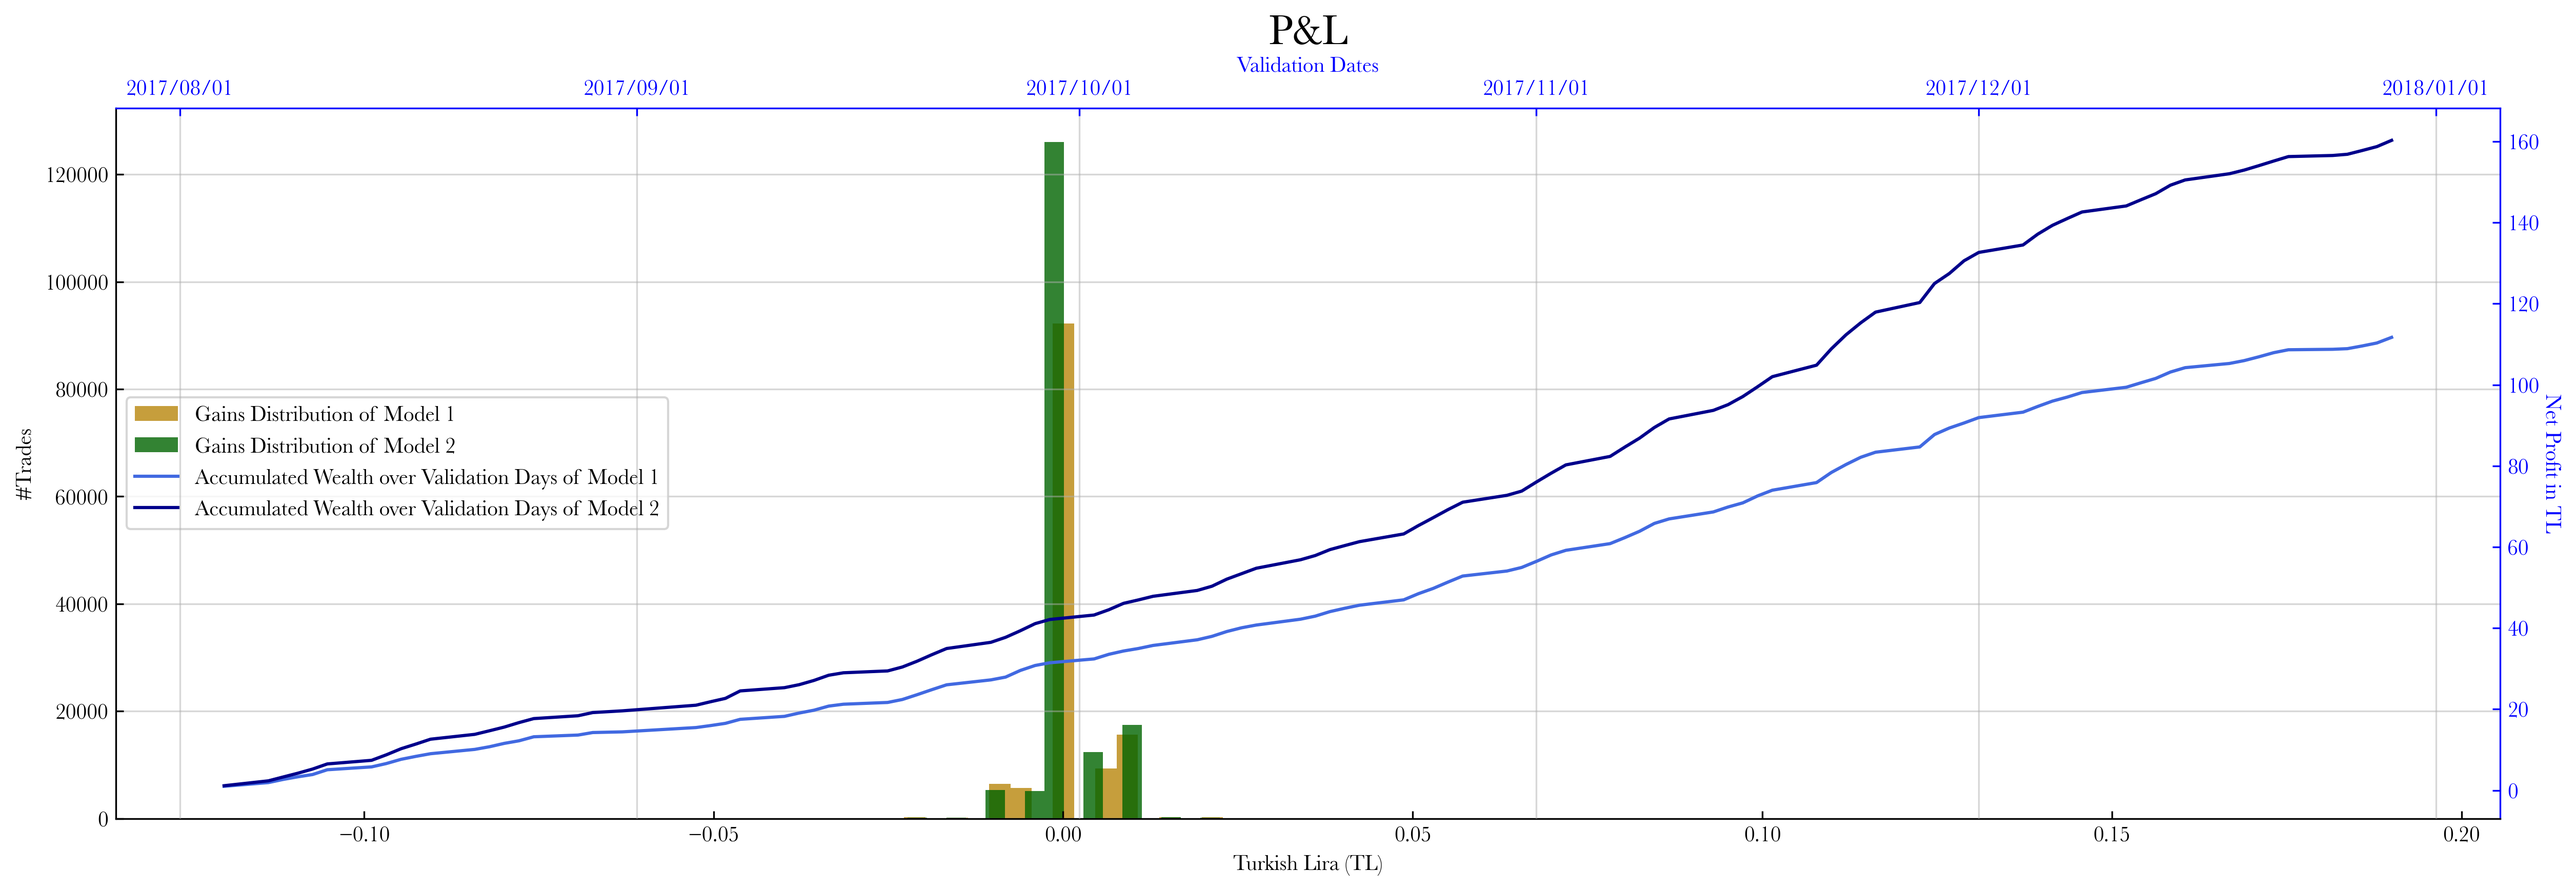
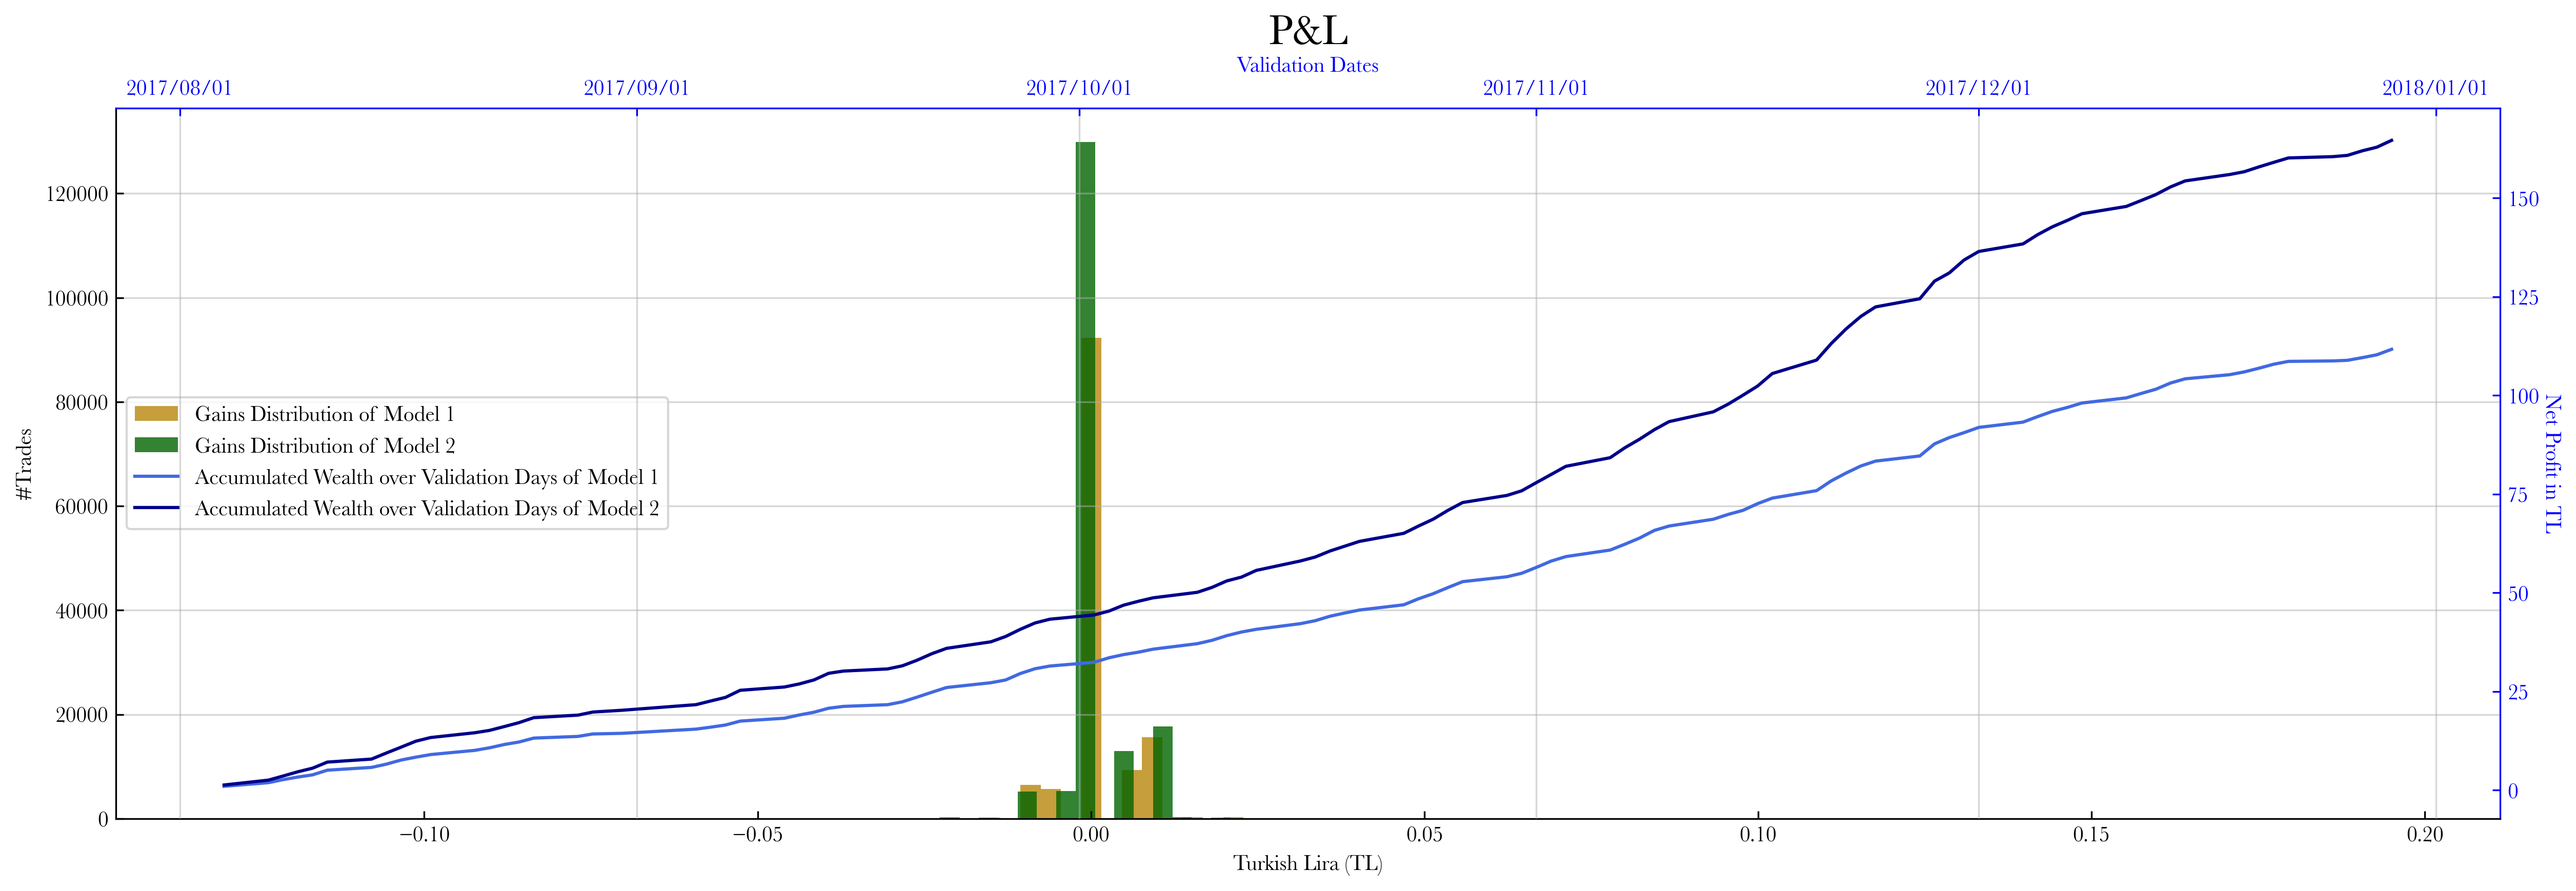
correctly initialize model 2 in PFNN

diff --git a/RL_Examples/RL_paper/PartiallyTrained/paper_random_init_website.html b/RL_Examples/RL_paper/PartiallyTrained/paper_random_init_website.html
@@ -13051,8 +13051,7 @@ div#notebook {
 </style>
 
 <!-- Custom stylesheet, it must be in the same directory as the html file -->
-<link rel="stylesheet" href="../../RL_Examples.css">
-<script src="../../RL_Examples.js"></script>
+<link rel="stylesheet" href="custom.css">
 
 <!-- Loading mathjax macro -->
 <!-- Load mathjax -->
@@ -13164,7 +13163,7 @@ $( document ).ready(function(){
 <span class="kn">import</span> <span class="nn">pickle</span>
 
 <span class="n">model_dir_1</span> <span class="o">=</span> <span class="s2">&quot;./01_12_21/&quot;</span>
-<span class="n">model_dir_2</span> <span class="o">=</span> <span class="s2">&quot;./20_12_2021_16_30_09/&quot;</span>
+<span class="n">model_dir_2</span> <span class="o">=</span> <span class="s2">&quot;./24_12_2021_06_05_02/&quot;</span>
 
 <span class="n">sys</span><span class="o">.</span><span class="n">path</span><span class="o">.</span><span class="n">append</span><span class="p">(</span><span class="n">model_dir_1</span><span class="p">)</span>
 <span class="n">sys</span><span class="o">.</span><span class="n">path</span><span class="o">.</span><span class="n">append</span><span class="p">(</span><span class="n">model_dir_2</span><span class="p">)</span>
@@ -13251,7 +13250,7 @@ $( document ).ready(function(){
 
 
 
-<div class="output_html rendered_html output_subarea " style="font-size: 8px;">
+<div class="output_html rendered_html output_subarea ">
 <pre>                                         Model 1                                                                                   Model 2                                          
 ====================================================================================================================================================================================
 Layer (type:depth-idx)                   Output Shape              Param #                Layer (type:depth-idx)                   Output Shape              Param #                
@@ -13351,7 +13350,7 @@ We also see that increasing the size of the non-trainable hidden layer is benefi
 
 <div class="output_subarea output_stream output_stdout output_text">
 <pre>Total Gains: 111.7 TL in 103 days (Model 1).
-Total Gains: 160.28 TL in 103 days (Model 2).
+Total Gains: 164.63 TL in 103 days (Model 2).
 </pre>
 </div>
 </div>
@@ -13362,7 +13361,7 @@ Total Gains: 160.28 TL in 103 days (Model 2).
 
 
 <div class="output_subarea output_stream output_stderr output_text">
-<pre>100%|██████████| 1/1 [00:00&lt;00:00,  3.74it/s]
+<pre>100%|██████████| 1/1 [00:00&lt;00:00,  4.45it/s]
 </pre>
 </div>
 </div>
@@ -13468,7 +13467,7 @@ Total Gains: 160.28 TL in 103 days (Model 2).
 
 <div class="output_subarea output_stream output_stdout output_text">
 <pre>Training duration: 2.66 Hours, Model taken from iteration no. 250, Total iterations: 250 (Model 1).
-Training duration: 3.66 Hours, Model taken from iteration no. 248, Total iterations: 250 (Model 2).
+Training duration: 1.29 Hours, Model taken from iteration no. 233, Total iterations: 250 (Model 2).
 </pre>
 </div>
 </div>
@@ -13479,7 +13478,7 @@ Training duration: 3.66 Hours, Model taken from iteration no. 248, Total iterati
 
 
 <div class="output_subarea output_stream output_stderr output_text">
-<pre>100%|██████████| 1/1 [00:00&lt;00:00, 16.65it/s]
+<pre>100%|██████████| 1/1 [00:00&lt;00:00, 18.58it/s]
 </pre>
 </div>
 </div>
@@ -13504,7 +13503,7 @@ Training duration: 3.66 Hours, Model taken from iteration no. 248, Total iterati
 
 
 <div class="output_subarea output_stream output_stderr output_text">
-<pre>100%|██████████| 1/1 [00:00&lt;00:00, 15.39it/s]
+<pre>100%|██████████| 1/1 [00:00&lt;00:00, 23.36it/s]
 </pre>
 </div>
 </div>
@@ -13529,7 +13528,7 @@ Training duration: 3.66 Hours, Model taken from iteration no. 248, Total iterati
 
 
 <div class="output_subarea output_stream output_stderr output_text">
-<pre>100%|██████████| 25/25 [00:00&lt;00:00, 42.06it/s]
+<pre>100%|██████████| 25/25 [00:00&lt;00:00, 54.49it/s]
 </pre>
 </div>
 </div>
